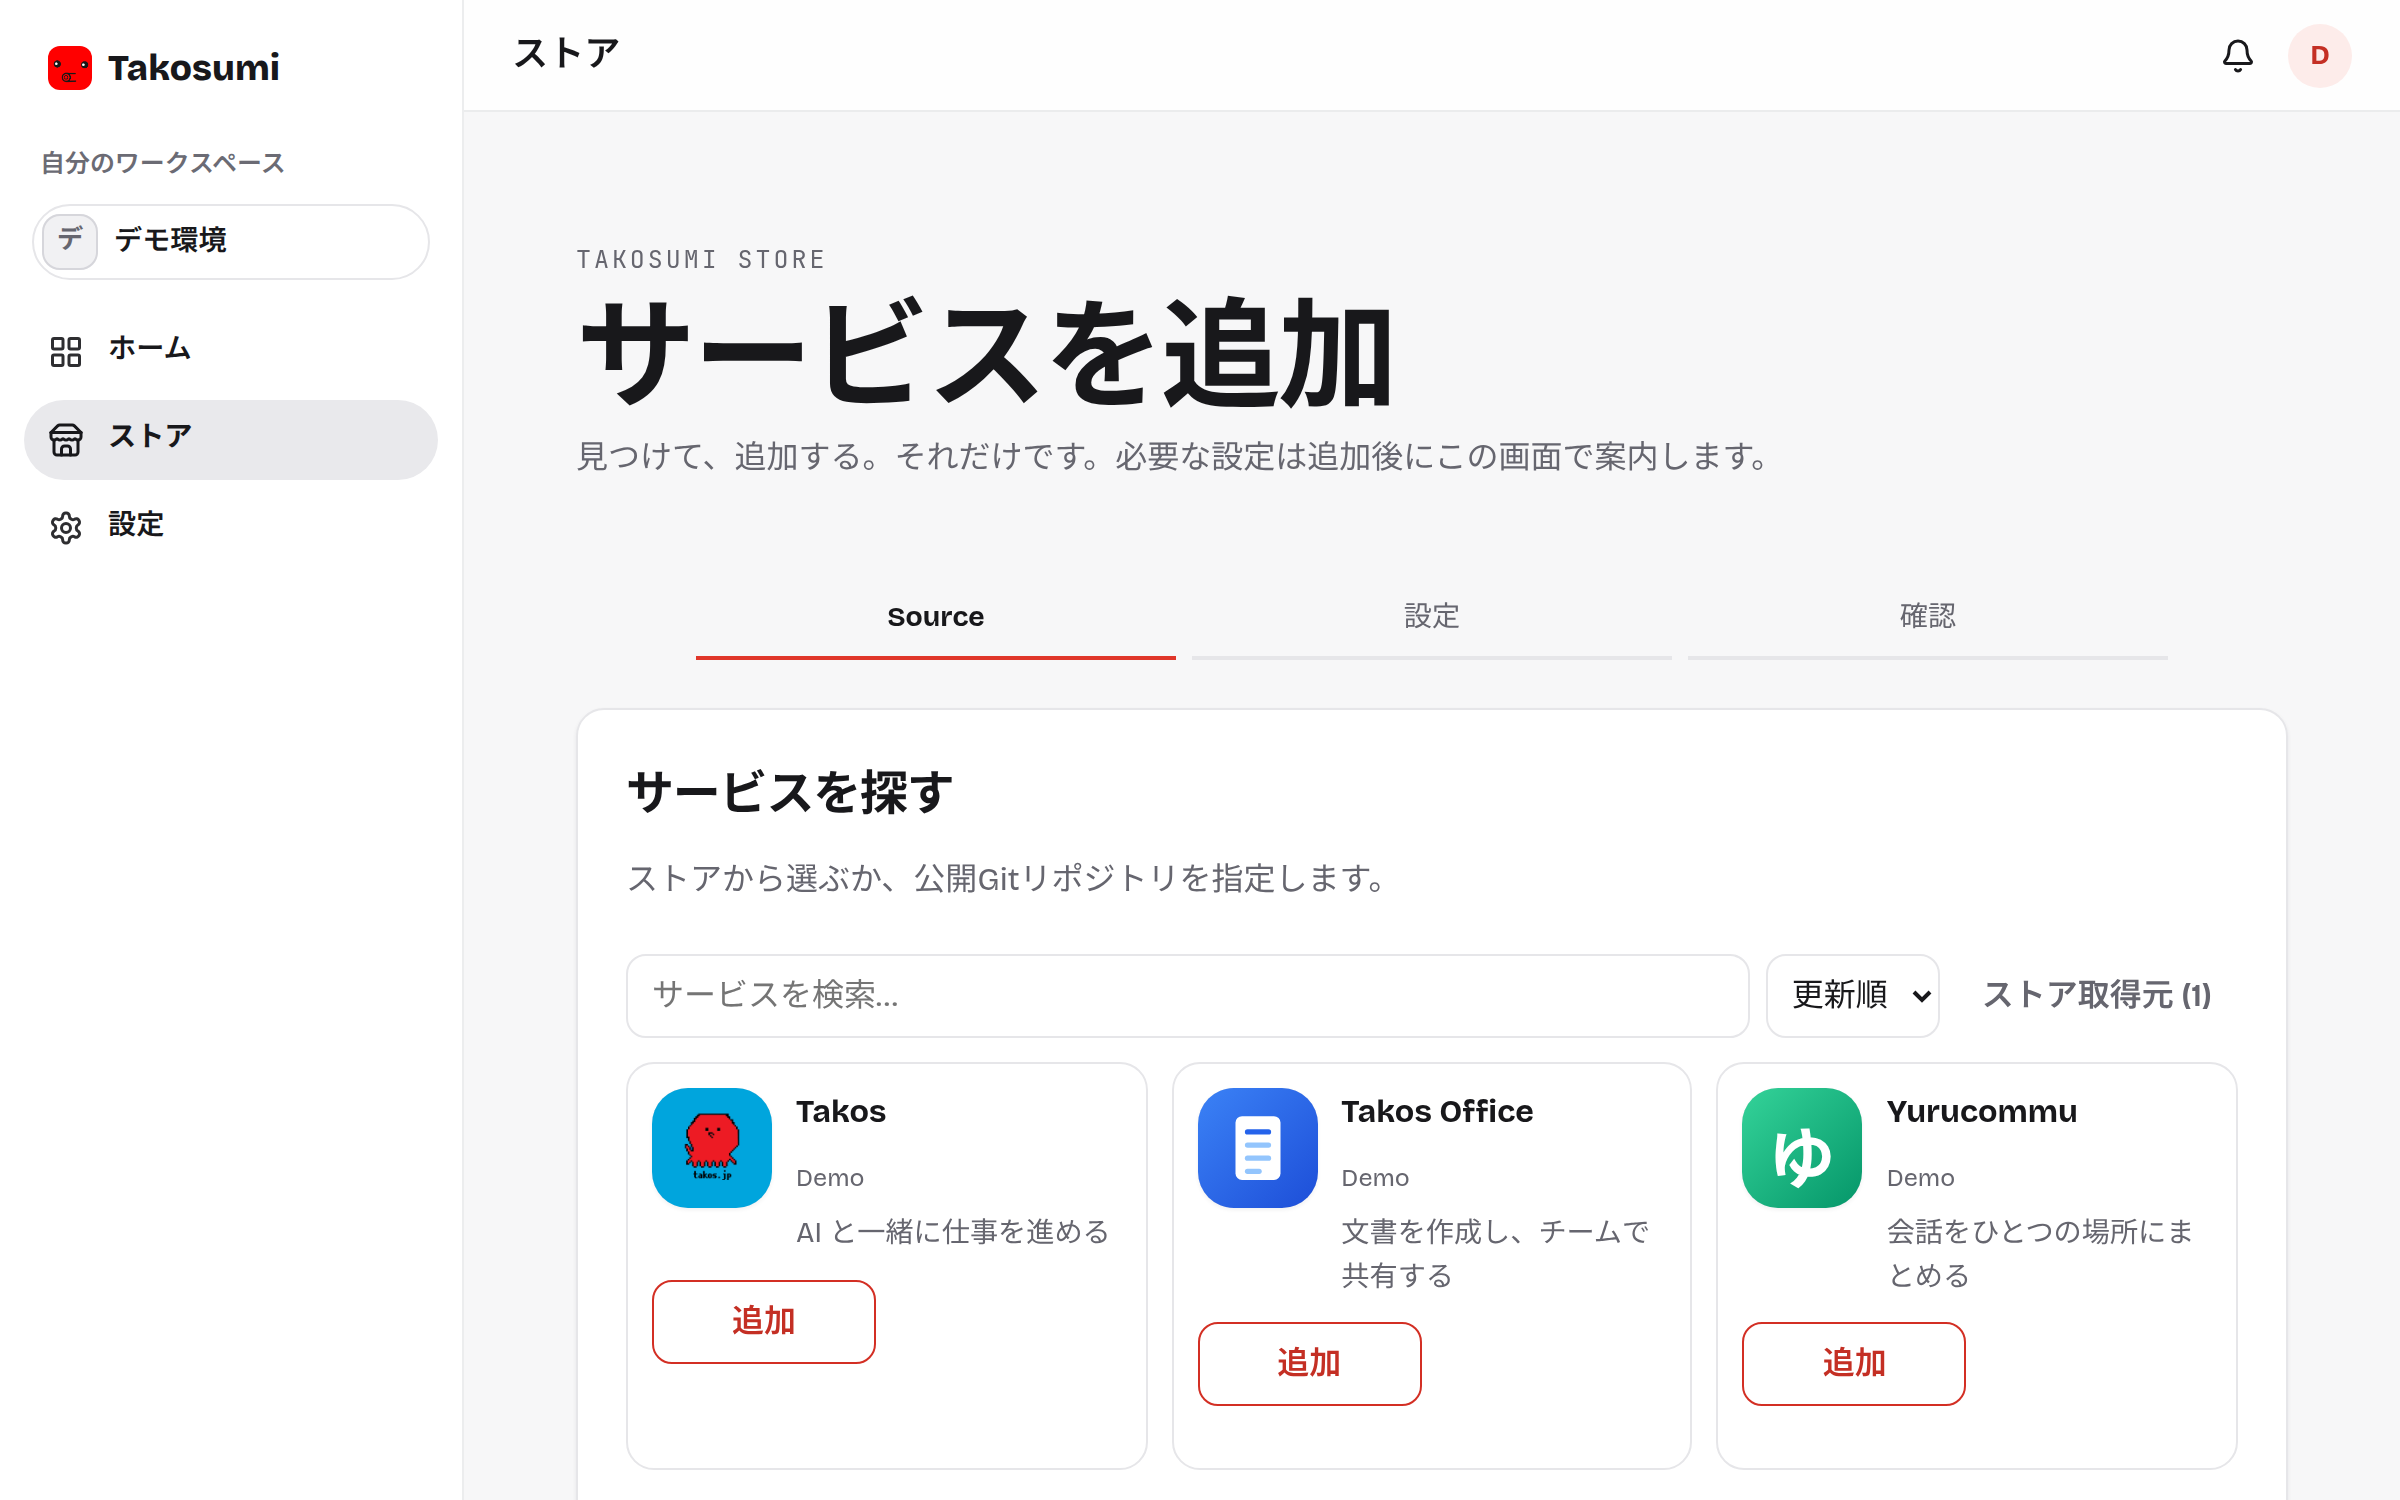
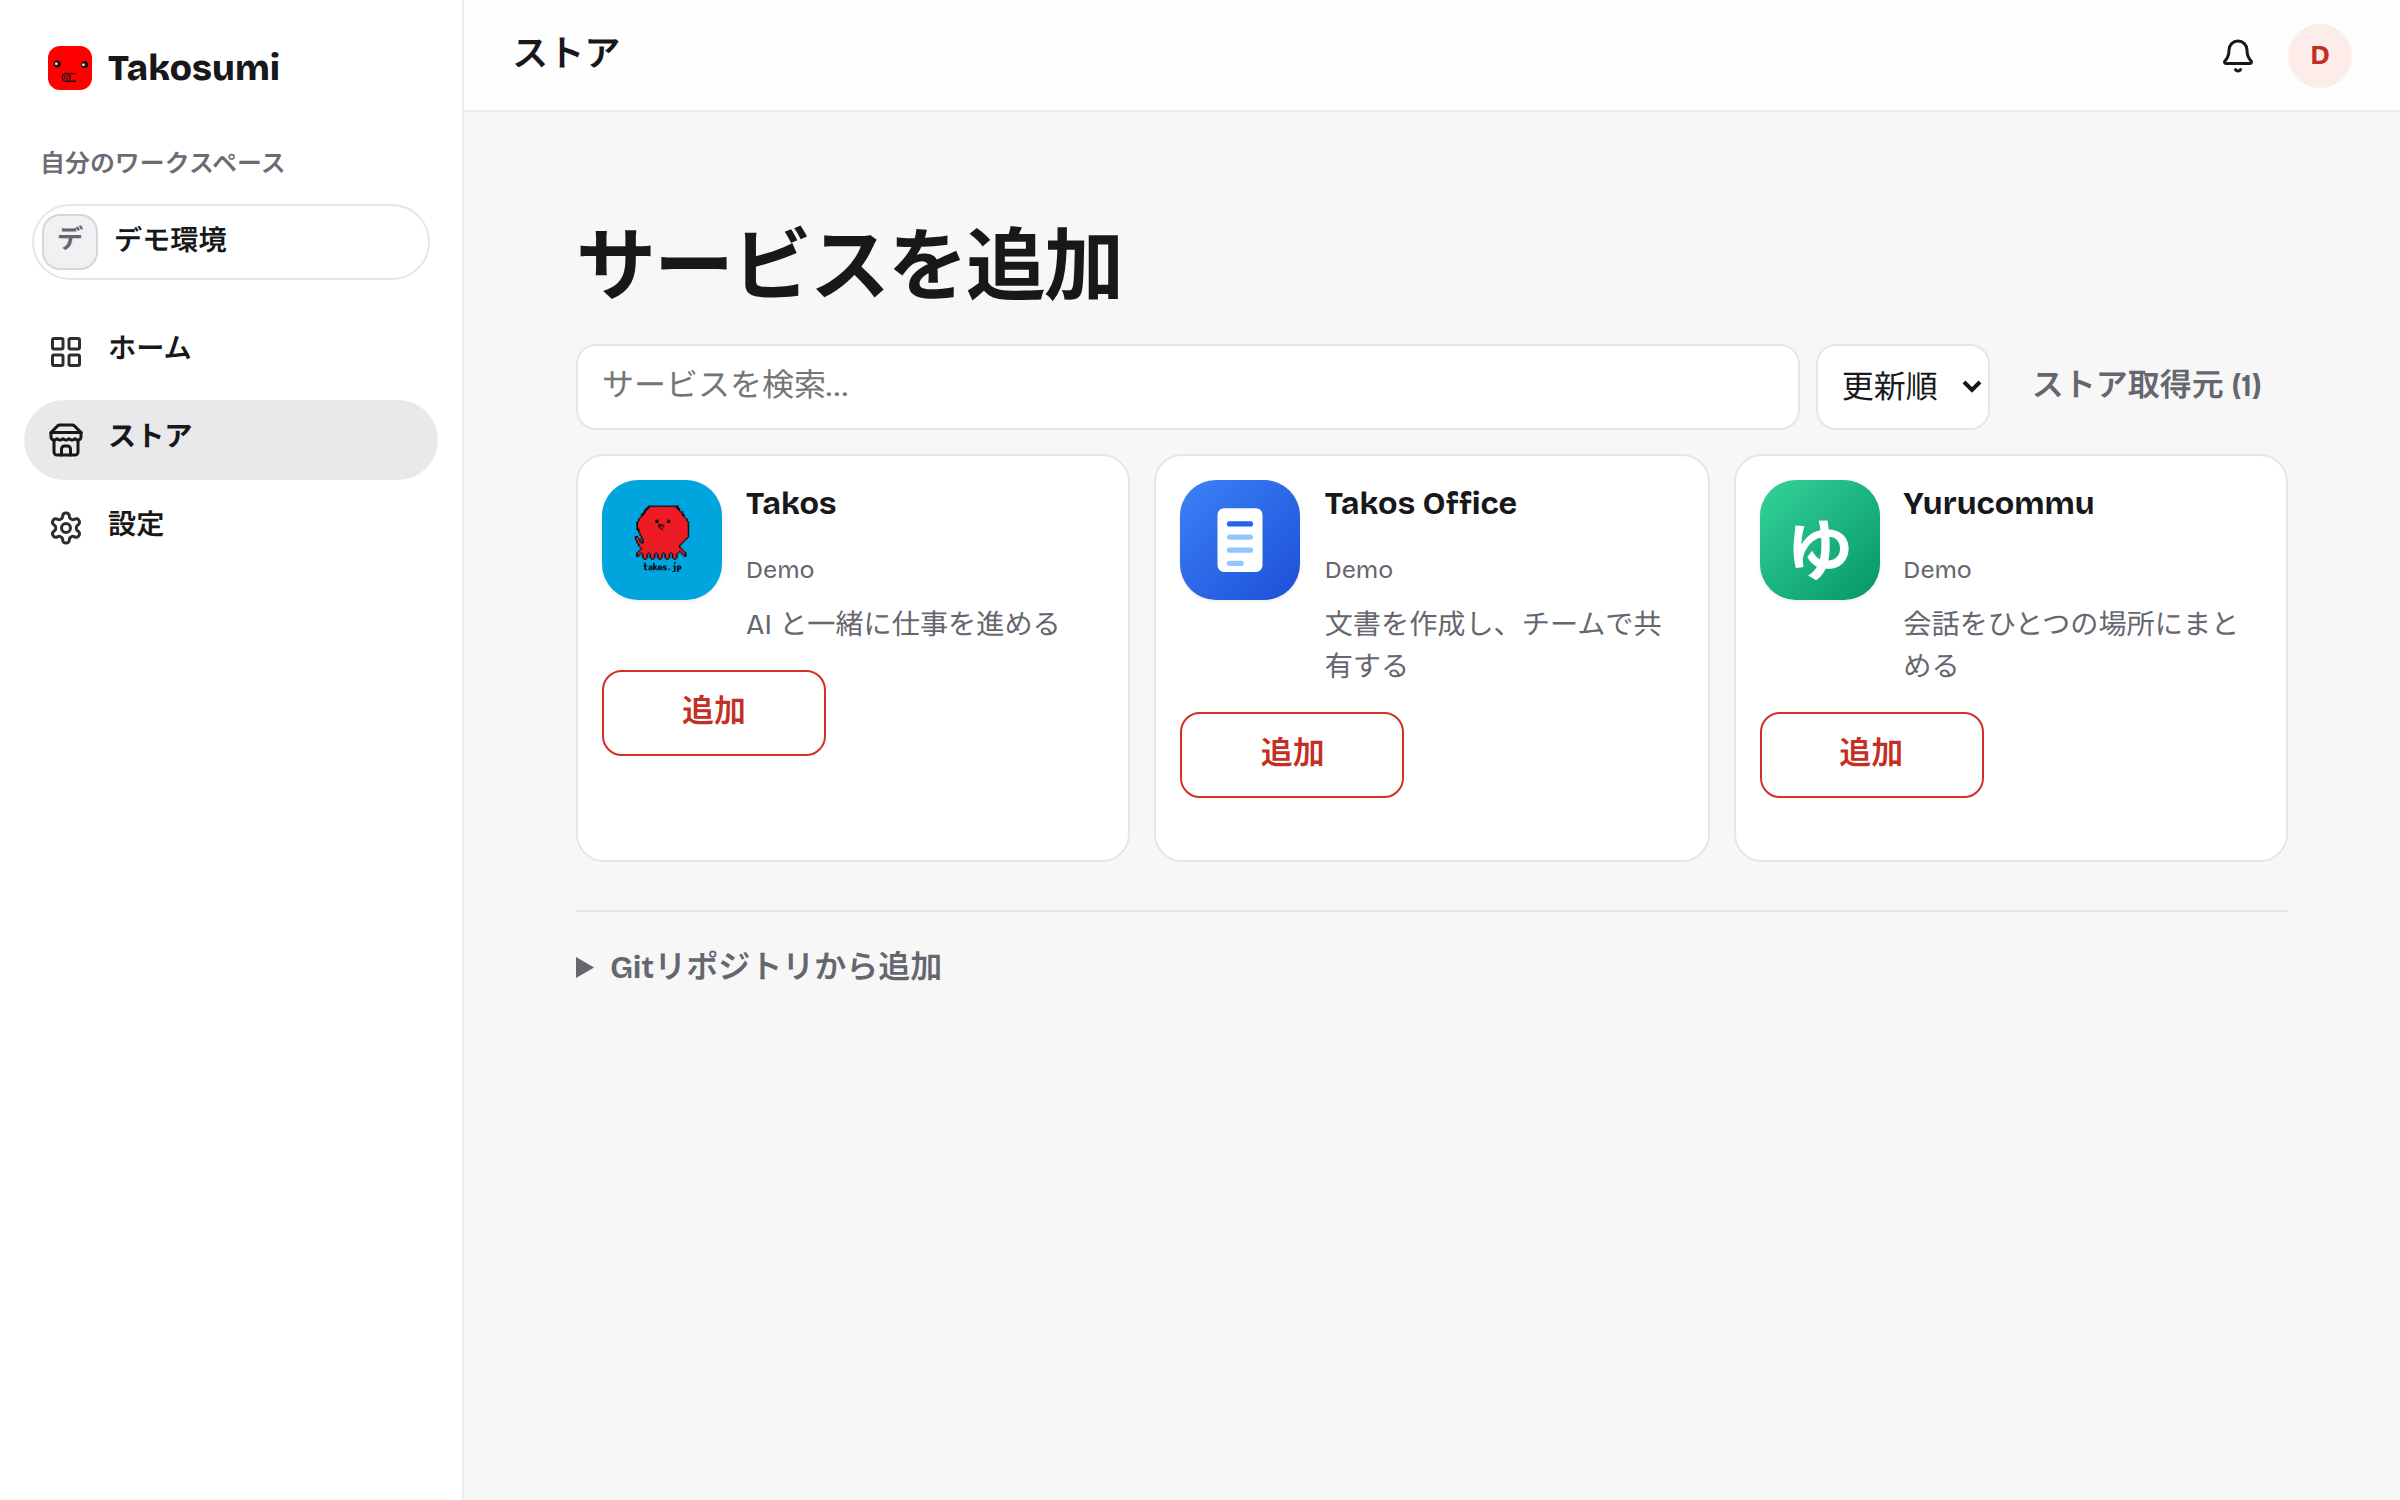
website: recapture the Store screens from the current dashboard
The landing's Store captures showed a 「Source」 tab and the heading
「見つけて、追加する。それだけです。」, neither of which the dashboard
has any more. The four Store images are recaptured with the documented
fixture script from the dashboard source at 46d87d185; a second run with
the documented Japanese font setup produced the same bytes, and Home
recaptured byte-identically, so its files are unchanged.

diff --git a/website/scripts/capture-product-ui-provenance.md b/website/scripts/capture-product-ui-provenance.md
@@ -56,16 +56,20 @@ repository's portable browser fixture server. They were captured on
 `d4b1c52f8434cb163ac76f1a4682baf564612acc`; the matching light images
 came from checkout `3820a6359e7e044d5283b662540f80212b3929d9`.
 The dark and light desktop Home images were refreshed on 2026-10-04 from
-checkout `0f9f6ac2e` with a full 1200 × 750 viewport. The other six images
-retain their previous capture bytes.
+checkout `0f9f6ac2e` with a full 1200 × 750 viewport. The four Store images were
+recaptured on 2026-10-15 from the dashboard source at `46d87d185`, because the
+earlier ones showed a 「Source」 tab and heading copy that the dashboard no
+longer has. Recapturing Home from the same source produced byte-identical
+images, so the Home files are unchanged.
 `capture-dashboard-ui.mjs` intercepts the public example session, Workspace,
 Capsule, and authorized `interface.ui.surface` list reads for the Home launcher,
 plus the TCS v2 Store discovery reads. The three products are illustrative:
 Takos, Takos Office, and Yurucommu, with `example.test` launch URLs and
 `github.com/example` source URLs. Their rows are shaped as the dashboard's
 real API projections; they do not describe installed production services or
-available official Store listings. The Store images show source selection,
-not completed configuration or installation. All non-GET requests and external browser requests are blocked. The
+available official Store listings. The Store images show the Store with
+three listings before one is chosen, not completed configuration or
+installation. All non-GET requests and external browser requests are blocked. The
 Takos icon is the current `website/public/apps/takos.png`; Office and
 Yurucommu use this repository's `dashboard/public/brand/` SVGs. All three
 are fulfilled locally at an illustrative icon origin.
